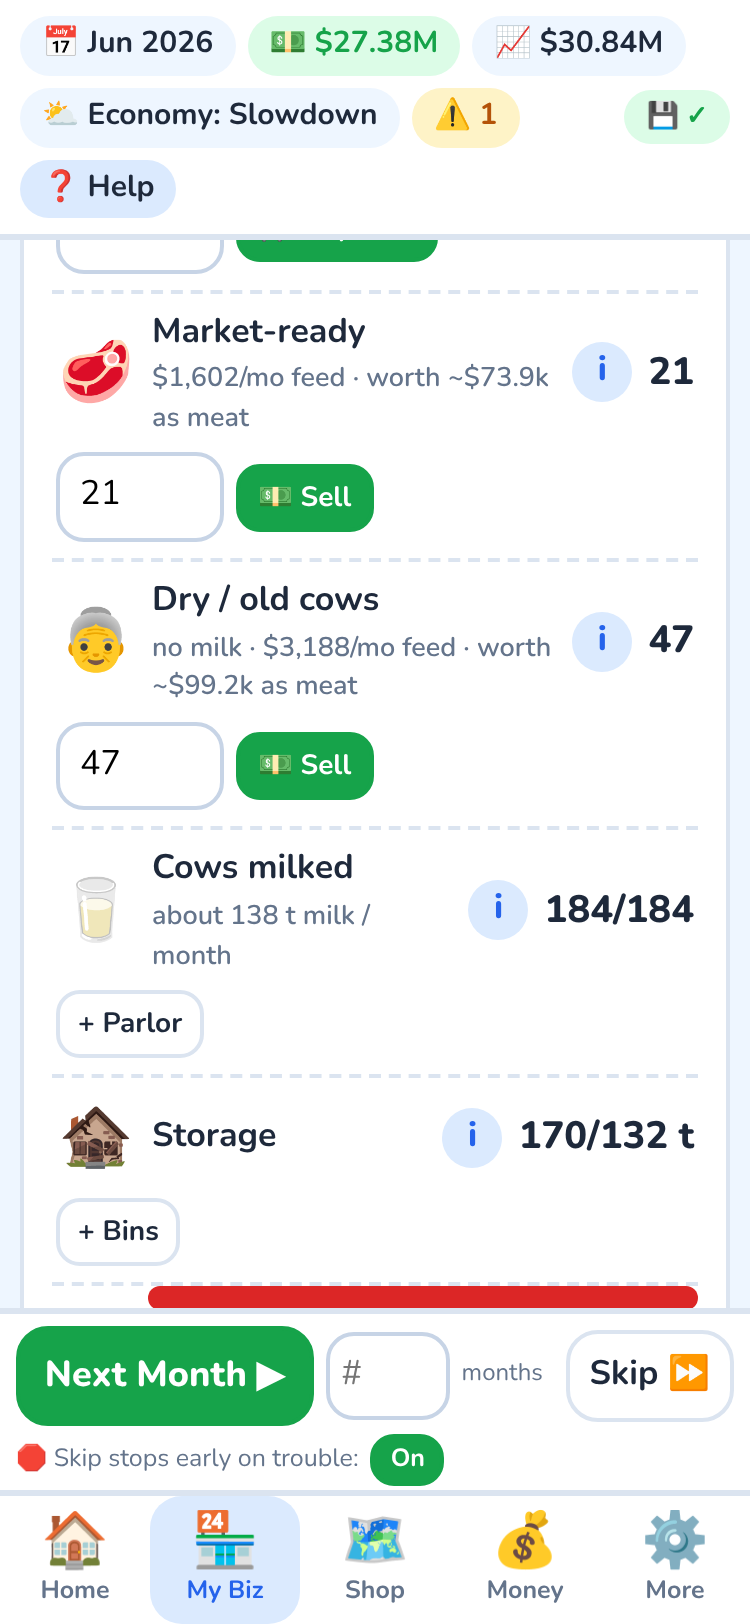
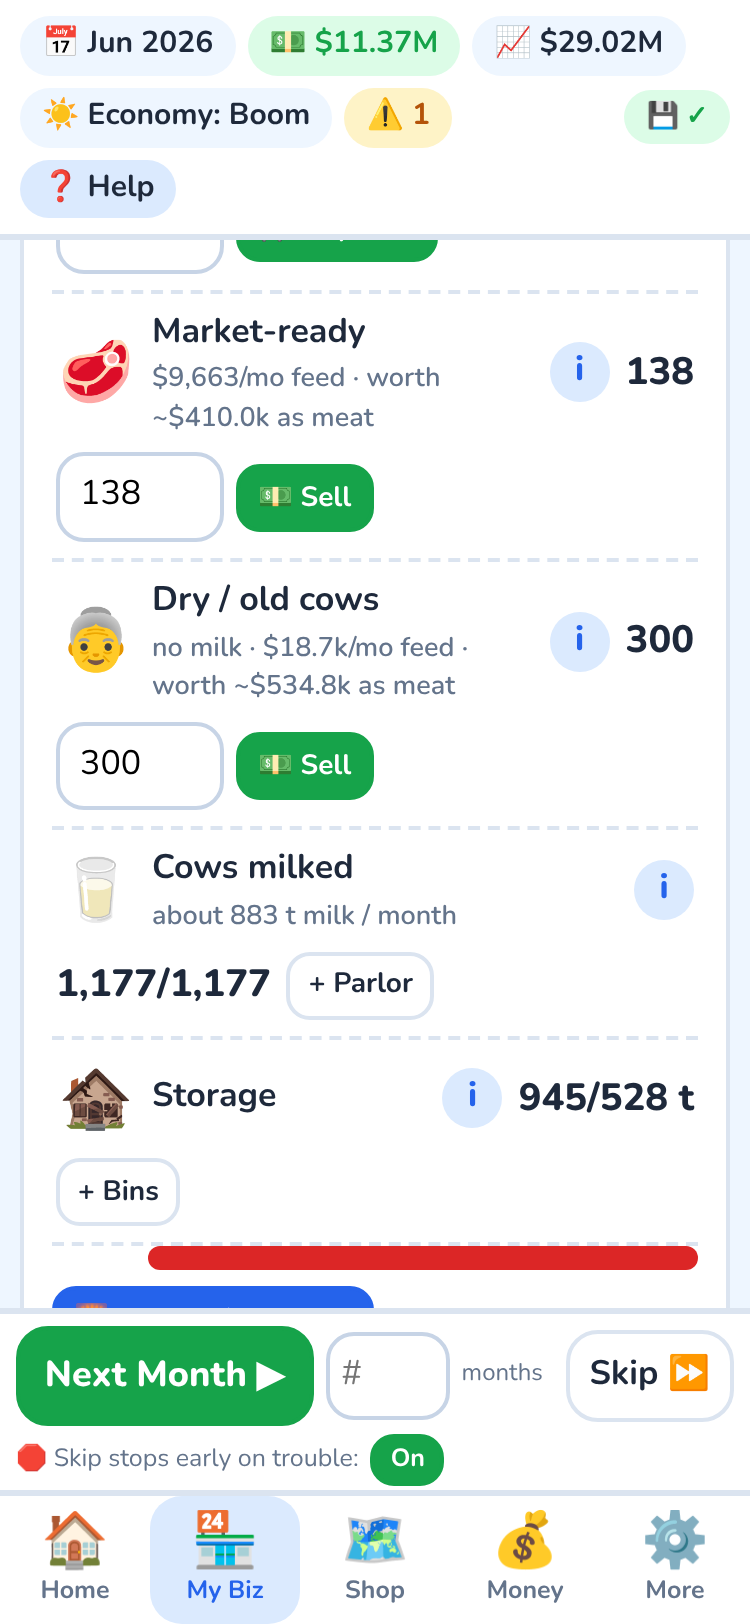
v9: dry-cows screenshot shows the Now-page row

diff --git a/tools/shots9.js b/tools/shots9.js
@@ -50,7 +50,7 @@ const URL = process.env.URL || 'http://127.0.0.1:8765/index.html';
   await p.evaluate(() => { const el = [...document.querySelectorAll('main *')].find((x) => x.children.length === 0 && /^Tractors/.test(x.textContent.trim())); if (el) el.scrollIntoView({ block: 'center' }); }); await snap('shots9-farm-now-tractors.png');
   // 8) dry / old cows: the herd row explains itself, count + feed + meat value + Sell button, heads-up with no manager
   await p.evaluate(() => { const g = TG.G, b = g.businesses.find((x) => x.id === window.__f); for (const k in b.spec) b.spec[k] = null; g.ceo = null; const a = b.farm.areas.cows; TG.M.herdSync(a); a.st.dry = Math.max(15, Math.ceil(a.herd * 0.12)); TG.M.herdSync(a); TG.UI.render(); const ch = [...document.querySelectorAll('.herdchips [data-act="tip"]')].find((x) => /dry/.test(x.innerText)); if (ch) ch.click(); });
-  await scrollTo('Dry / old cows'); await snap('shots9-dry-cows.png');
+  await p.evaluate(() => { const el = (document.querySelector('[data-act="cowSell"][data-arg="dry"]') || document.getElementById('dryN' + window.__f)); if (el) el.scrollIntoView({ block: 'center' }); }); await snap('shots9-dry-cows.png');
   await p.evaluate(() => { const ch = [...document.querySelectorAll('.herdchips [data-act="tip"]')].find((x) => /dry/.test(x.innerText)); if (ch) { ch.click(); ch.scrollIntoView({ block: 'start' }); } }); await snap('shots9-herd-stage-tip.png');
   await p.evaluate(() => { TG.UI.S.supOK = -1; TG.UI.A.next(); }); await snap('shots9-dry-before-next.png');
   if (errs.length) console.log('PAGE ERRORS:', errs.join('\n'));
